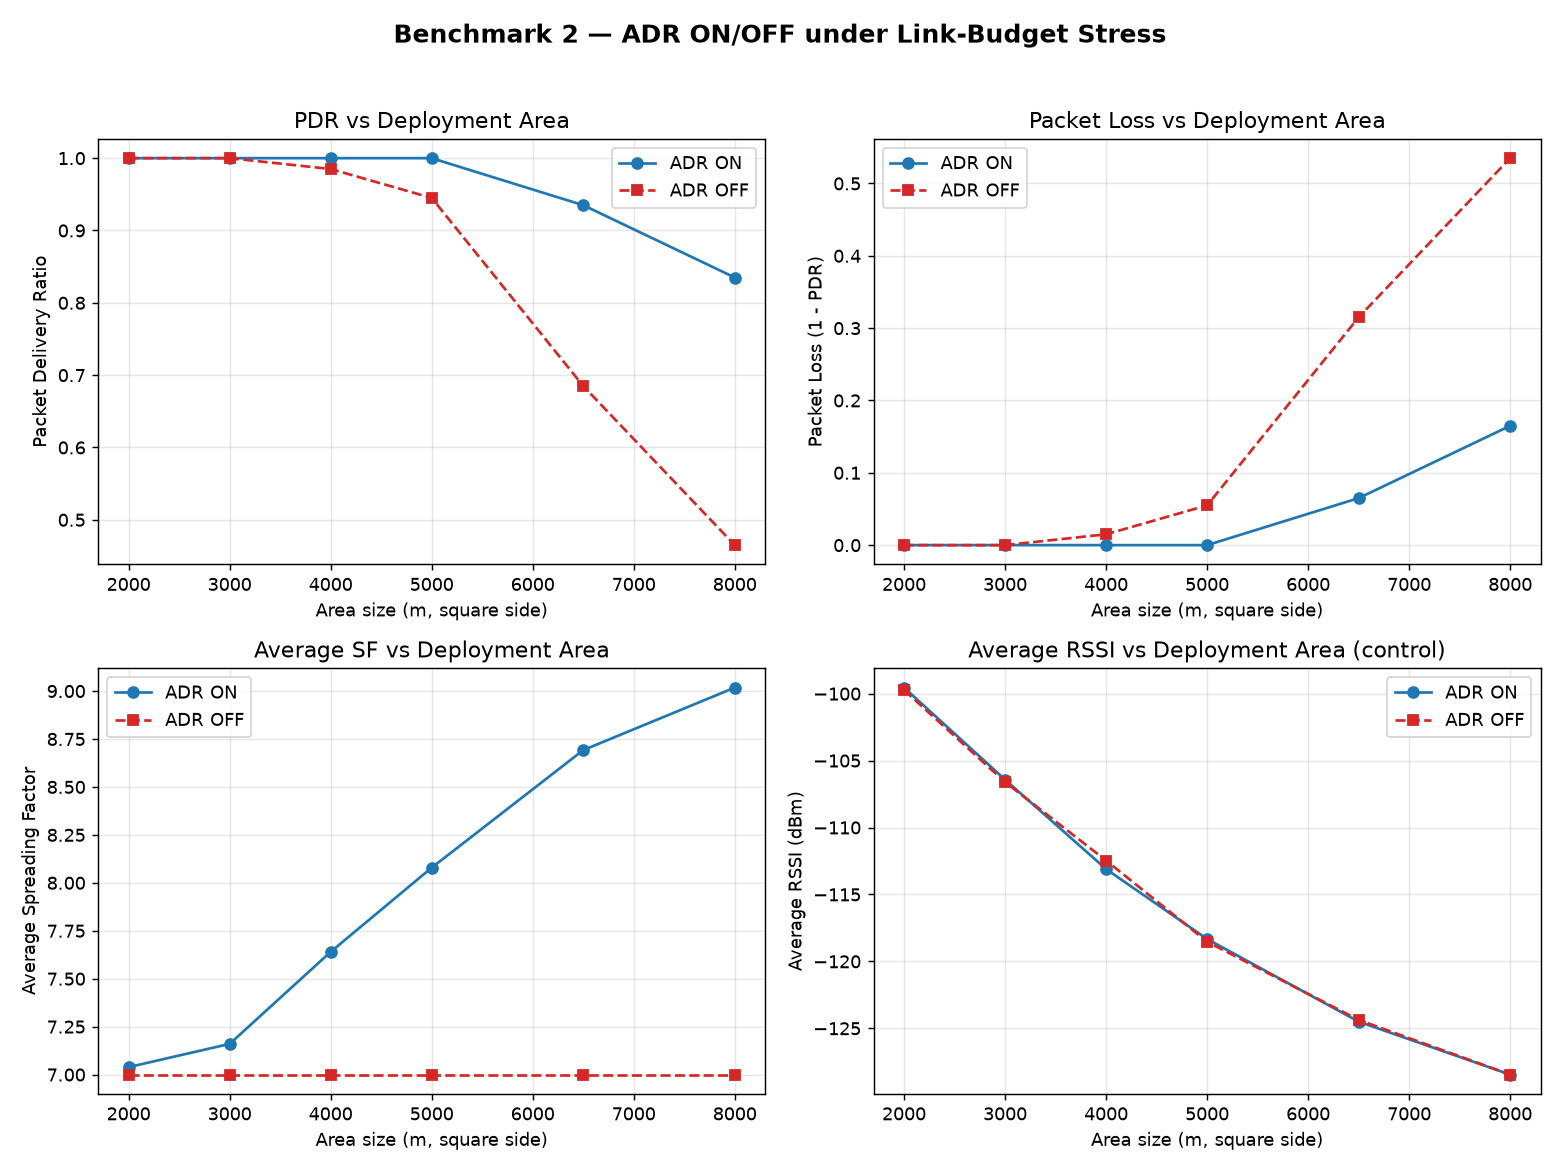
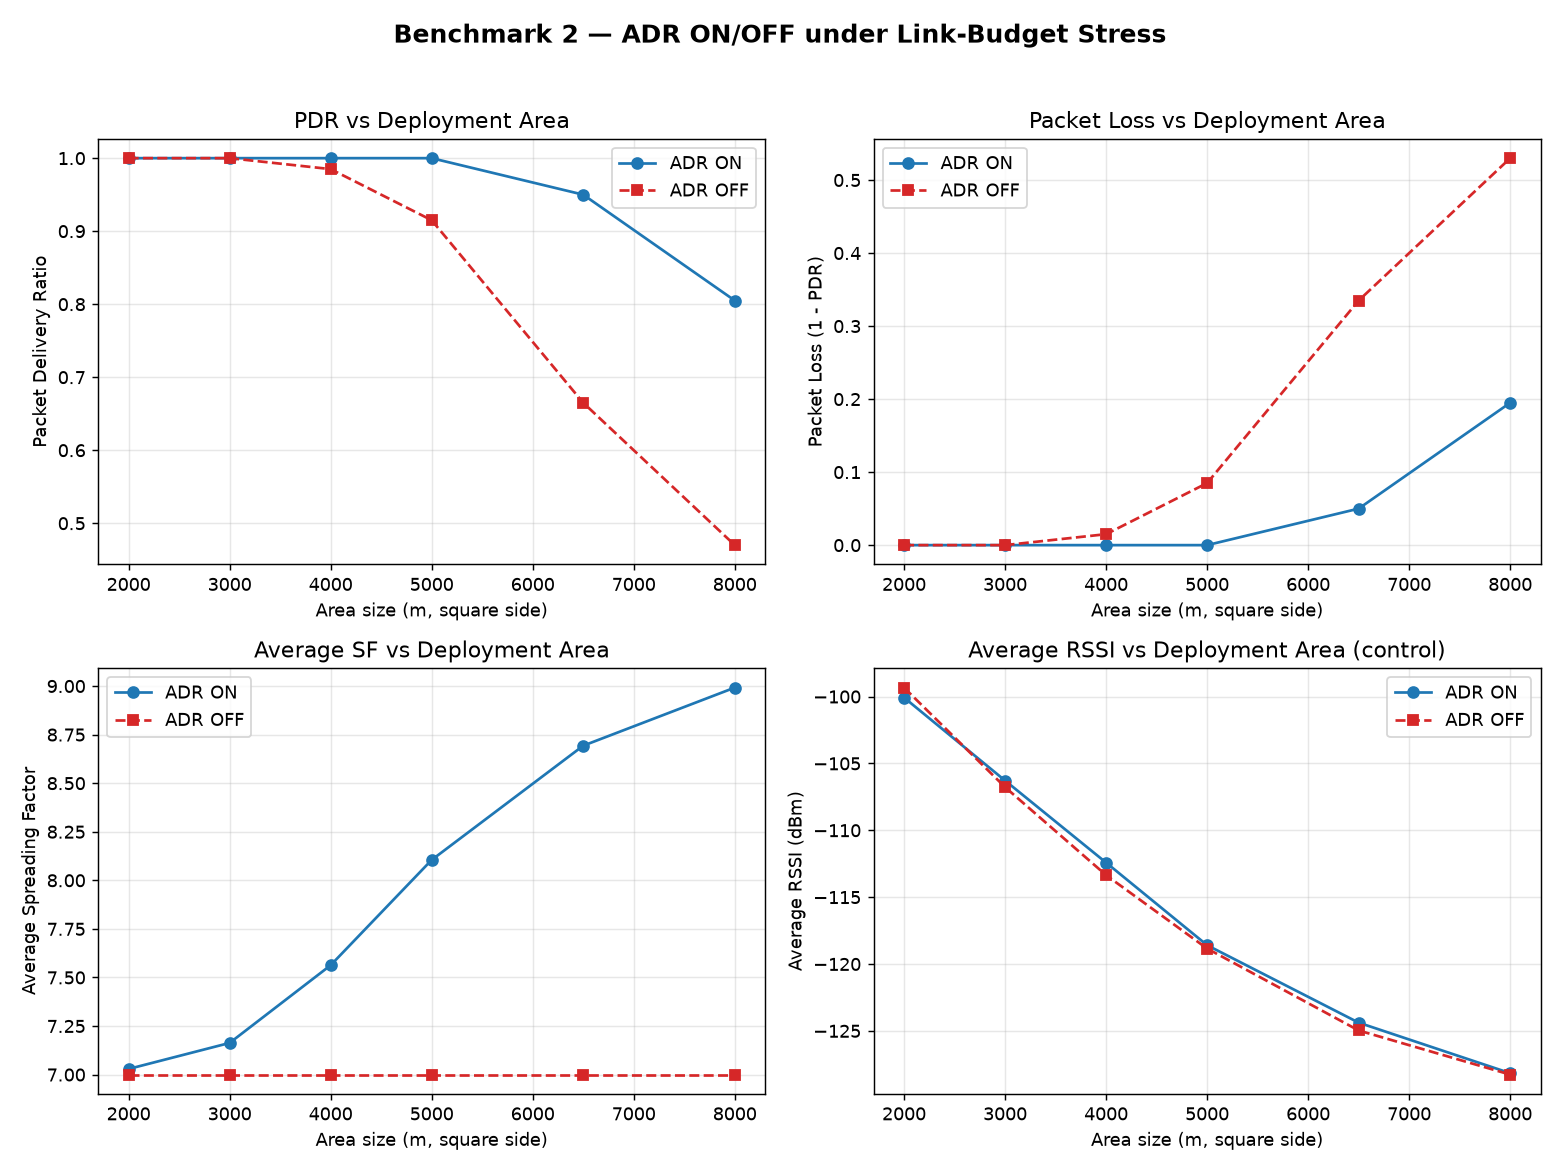
release: prepare v1.1.0

diff --git a/docs/reproducibility.md b/docs/reproducibility.md
@@ -1,0 +1,64 @@
+# Reproducibility Checklist
+
+How to rebuild every result in this repository from a clean checkout.
+
+## Environment
+
+- **Python**: CPython 3.13 (developed and tested on 3.13.x; requires 3.12+)
+- **Dependencies**: `requirements.txt` — install with
+  `python -m pip install -r requirements.txt`
+- **Docker** (optional, for the containerized demo): 20.10+ with the Compose v2
+  plugin (`docker compose` subcommand)
+
+## Benchmark
+
+Command:
+
+```bash
+python scripts/run_all_benchmarks.py
+```
+
+Expected artifacts (written to `docs/benchmark/`):
+
+- `scalability.csv` — throughput vs. node count
+- `adr_compare.csv` — ADR on/off PDR by link distance
+- `distance.csv` — PDR vs. link distance
+- `figures/scalability.png`
+- `figures/adr_compare.png`
+- `figures/distance_pdr.png`
+
+> Benchmarks drive the **frozen** simulation core through the read-only
+> `backend.engine.SimulationEngine` harness, so no core code is involved.
+> Some experiments use stochastic packet loss; re-running may yield slightly
+> different numeric values, but the qualitative trends (PDR degradation with
+> distance, linear throughput scaling) are stable across runs.
+
+## Demo
+
+Docker (recommended, zero local setup):
+
+```bash
+docker compose --profile demo up --build
+```
+
+Local Python:
+
+```bash
+python -m pip install -r requirements.txt
+python scripts/run_demo.py
+```
+
+## Verification
+
+Expected for the demo experiment (`scripts/run_demo.py` / `demo-init`):
+
+- nodes: **20**
+- gateways: **2**
+- seed: **1**
+- area: **400**
+- PDR: **1.0**
+
+## Release
+
+- Version: **v1.1.0**
+- Tag: `v1.1.0` (`git tag -a v1.1.0 -m "Release v1.1.0"`)

diff --git a/docs/releases/v1.1.0.md b/docs/releases/v1.1.0.md
@@ -1,0 +1,36 @@
+# LoRa-IoT-Simulator v1.1.0
+
+**Research Benchmark Release**
+
+## Added
+
+- Cross-platform local demo runner — `scripts/run_demo.py` (generates
+  `demo.db` + `demo_report.md` headlessly, no Docker required).
+- Opt-in Docker demo profile — `docker compose --profile demo up --build`.
+  A one-shot `demo-init` service seeds a sample experiment on first launch.
+- `## Quick Demo` guide in `README.md` — clone-and-run onboarding that needs
+  zero code reading.
+
+## Improved
+
+- Benchmark reproducibility: a single unified entry point,
+  `scripts/run_all_benchmarks.py`, runs all three experiments in order with
+  consistent logging.
+- Documentation consistency: fixed dead `run_demo.sh` references and aligned
+  the documented demo parameters (20 nodes, 2 gateways, area 400, seed 1) with
+  the command that actually runs.
+- Demo isolation: demo data is volume-scoped in Docker (the `experiments-db`
+  volume) and git-ignored locally (`demo.db`/`demo_report.md`), so it never
+  touches the production `experiments.db`.
+
+## Verified
+
+- 20-node LoRa simulation with 2 gateways, seed 1, PDR 1.0.
+- Benchmark regeneration end-to-end via `scripts/run_all_benchmarks.py`.
+- Quick Demo both ways: Docker profile and local Python path.
+
+## Frozen core (unchanged since Sprint 4)
+
+`simulator/`, `gateway/`, and the `backend` engine are byte-for-byte
+unchanged. Everything in v1.1.0 is additive: new `scripts/`, `docs/`, the
+`README.md` showcase, and the `demo-init` Compose service only.
